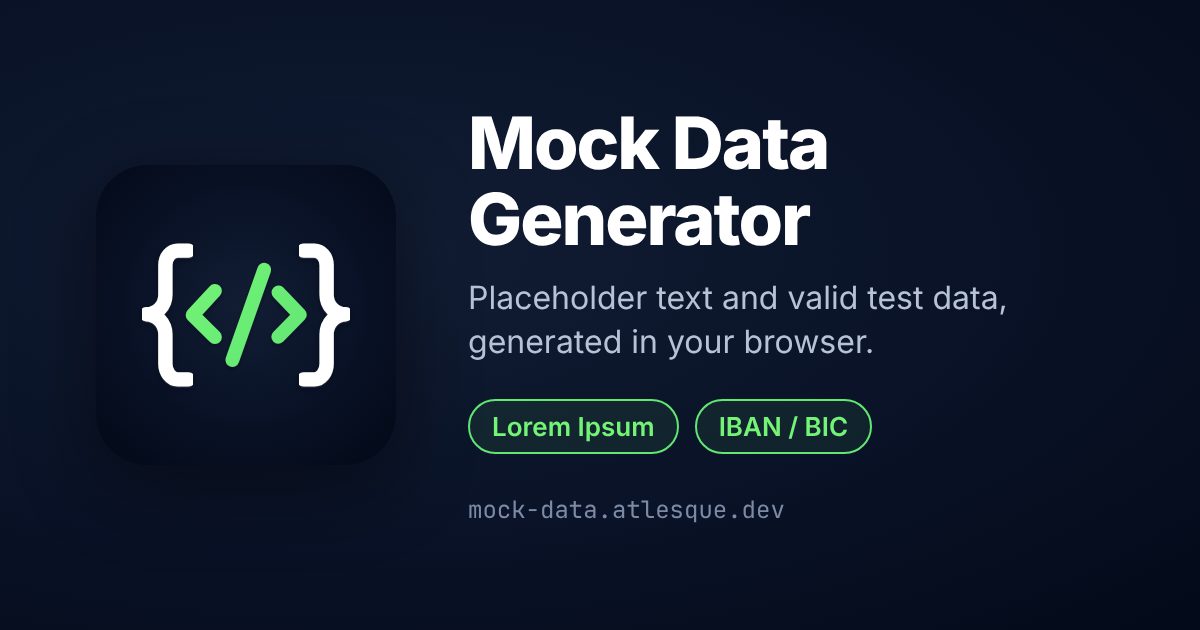
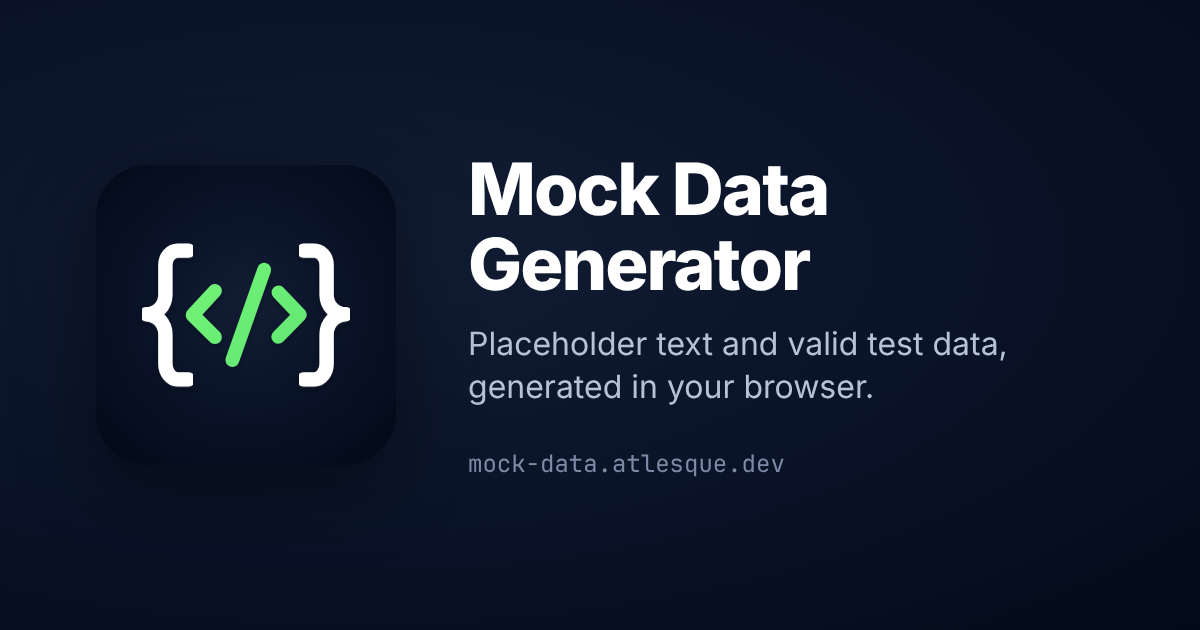
chore: remove generator badges from share image
Claude-Session: https://claude.ai/code/session_01XWmdkfZbHK4vmkK84FqrpX

Changed region(s): [[0.37, 0.181, 0.8325, 0.573], [0.37, 0.6032, 0.74, 0.754], [0.4008, 0.7841, 0.6475, 0.8444]]

diff --git a/nuxt.config.ts b/nuxt.config.ts
@@ -32,7 +32,7 @@ export default defineNuxtConfig({
         { property: 'og:image', content: 'https://mock-data.atlesque.dev/og-image.png' },
         { property: 'og:image:width', content: '1200' },
         { property: 'og:image:height', content: '630' },
-        { property: 'og:image:alt', content: 'Mock Data Generator: placeholder text and valid test data, with Lorem Ipsum and IBAN / BIC generators' },
+        { property: 'og:image:alt', content: 'Mock Data Generator logo with the tagline: placeholder text and valid test data, generated in your browser' },
         { name: 'twitter:card', content: 'summary_large_image' },
       ],
       link: [
